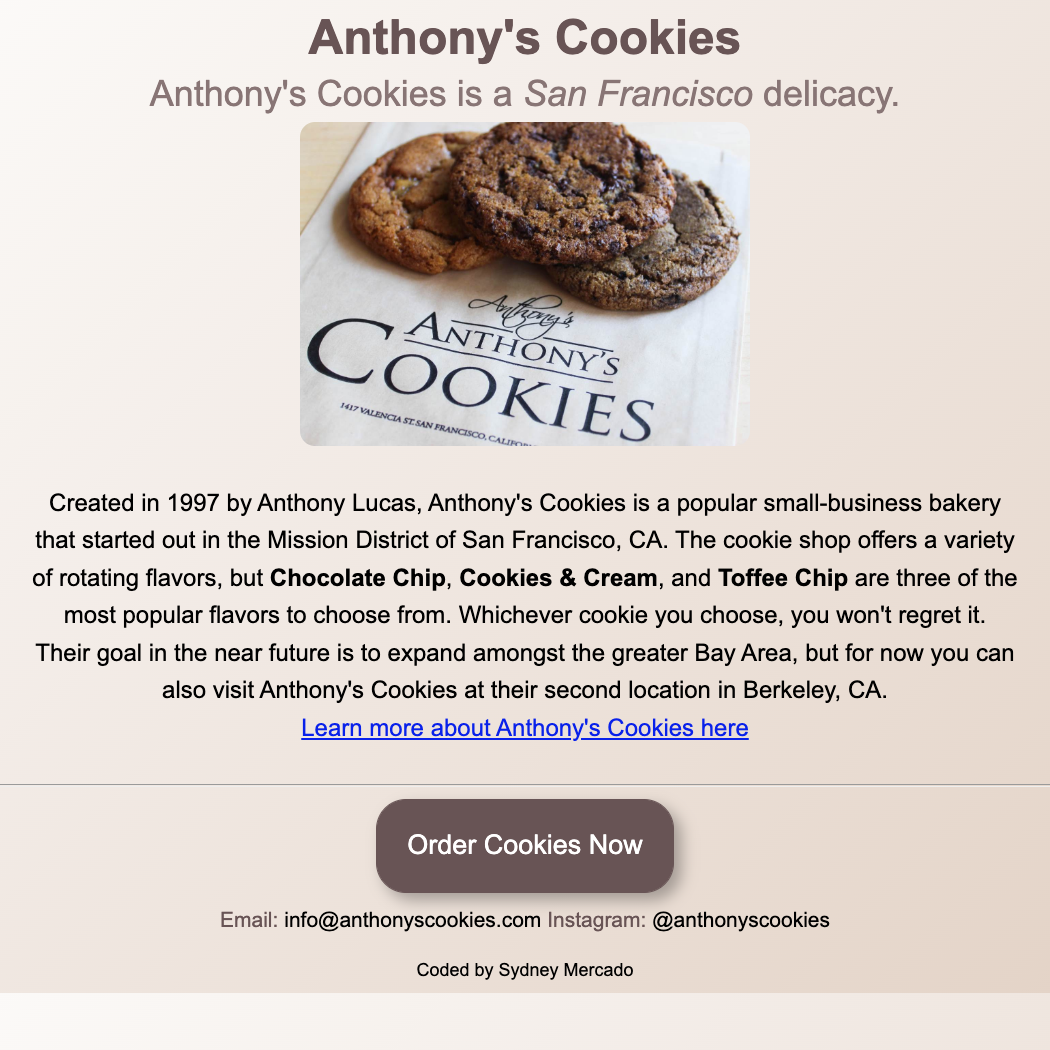
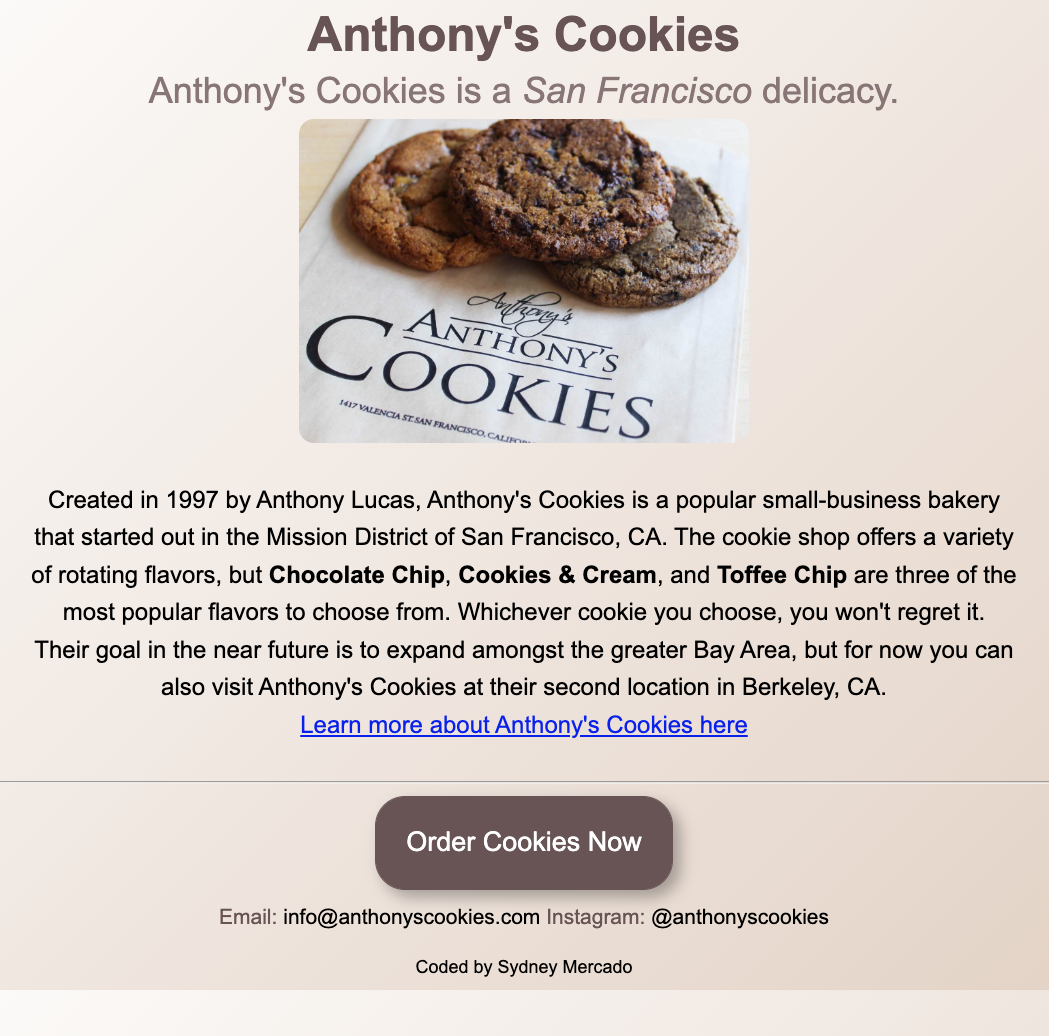
Made content changes and made work page

diff --git a/portfolio.html b/portfolio.html
@@ -25,7 +25,52 @@
     <title>Document</title>
   </head>
   <body>
-    <h1>My work</h1>
-    <a href="/">Go back to homepage</a>
+    <div class="content-container container">
+      <div class="content">
+        <h1 class="mb-5">Check out what I've been working on!</h1>
+        <div class="row">
+          <div class="col-md-6 mb-4">
+            <img
+              src="images/cookies.png"
+              alt="Cookie Website"
+              class="img-fluid mb-3 rounded"
+            />
+            <h3 class="text-center m-0">Cookie Project</h3>
+            <p class="text-center text-muted">Built with HTML and CSS</p>
+          </div>
+          <div class="col-md-6 mb-4">
+            <img
+              src="images/weather.png"
+              alt="Weather App"
+              class="img-fluid mb-3 rounded"
+            />
+            <h3 class="text-center m-0">Weather App</h3>
+            <p class="text-center text-muted">
+              Built with HTML, CSS, and JavaScript
+            </p>
+          </div>
+          <div class="col-md-6 mb-4">
+            <img
+              src="images/dictionary.png"
+              alt="Dictionary App"
+              class="img-fluid mb-3 rounded"
+            />
+            <h3 class="text-center m-0">Dictionary App</h3>
+            <p class="text-center text-muted">
+              Built with HTML, CSS, and JavaScript
+            </p>
+          </div>
+          <div class="col-md-6 mb-4">
+            <img
+              src="images/yogurt.png"
+              alt="Yogurt Project"
+              class="img-fluid mb-3 rounded"
+            />
+            <h3 class="text-center m-0">Yogurt Project</h3>
+            <p class="text-center text-muted">Built with HTML and CSS</p>
+          </div>
+        </div>
+      </div>
+    </div>
   </body>
 </html>

diff --git a/index.html b/index.html
@@ -42,16 +42,20 @@
     <div class="container">
       <div class="row mb-5">
         <div class="col d-none d-lg-block">
-          <img src="images/cookies.png" class="img-fluid" alt="yogurt" />
+          <img
+            src="images/cookies.png"
+            class="img-fluid"
+            alt="Cookie website"
+          />
         </div>
         <div class="col">
           <div class="project-description">
-            <h2 class="mb-5">Website Project</h2>
+            <h2 class="mb-5">Cookie Project</h2>
             <p class="mb-5 text-muted">
               The purpose of this project was to create a landing page for
-              anything you would like. Since I love eating cookies, I decided to
-              feature my favorite cookie shop. The main requirements were to use
-              HTML and CSS to design the landing page.
+              anything you would like. Since I love baking and eating cookies, I
+              decided to feature my favorite cookie shop. The main requirements
+              were to use HTML and CSS to design the landing page.
             </p>
             <a href="#" class="btn btn-branding-accent">Learn more</a>
           </div>

diff --git a/about.html b/about.html
@@ -25,11 +25,11 @@
     <title>Document</title>
   </head>
   <body>
-    <div class="about-section container">
+    <div class="content-container container">
       <div class="row">
         <div class="col-md-6">
-          <div class="about-section-content">
-            <h1 class="mb-4">Hi, I am Sydney Mercado</h1>
+          <div class="content">
+            <h1 class="mb-4 introduction">Hi, I am Sydney Mercado</h1>
             <h2 class="mb-4">Front-end Developer, based in San Francisco</h2>
             <p class="mb-4">
               I am a new front-end developer coming from a background in Food
@@ -42,7 +42,7 @@
         </div>
         <div class="col-md-6">
           <img
-            src="images/portrait.png"
+            src="images/selfie.png"
             alt="Sydney"
             class="portrait img-fluid"
           />

diff --git a/styles/portfolio.css b/styles/portfolio.css
@@ -71,23 +71,35 @@ p {
   padding: 80px 20px;
 }
 
-.about-section {
-  padding: 120px 20px;
+.content-container {
+  padding: 60px 20px;
 }
 
-.about-section h1 {
+.introduction {
   font-size: 64px;
   line-height: 80px;
 }
 
-.about-section h2 {
+.content-container h1 {
+  font-size: 48px;
+  line-height: 80px;
+}
+
+.content-container h2 {
   font-size: 18px;
   font-family: var(--default-font-family);
   font-weight: bold;
 }
 
-.about-section-content {
+.content {
   margin: 30px;
+}
+
+.content h3 {
+  font-size: 24px;
+  font-family: var(--default-font-family);
+  font-weight: bold;
+  line-height: 1.5;
 }
 
 .portrait {
@@ -108,7 +120,7 @@ p {
     padding: 80px 20px;
   }
 
-  .about-section {
+  .content-container {
     text-align: center;
     padding: 0;
   }
